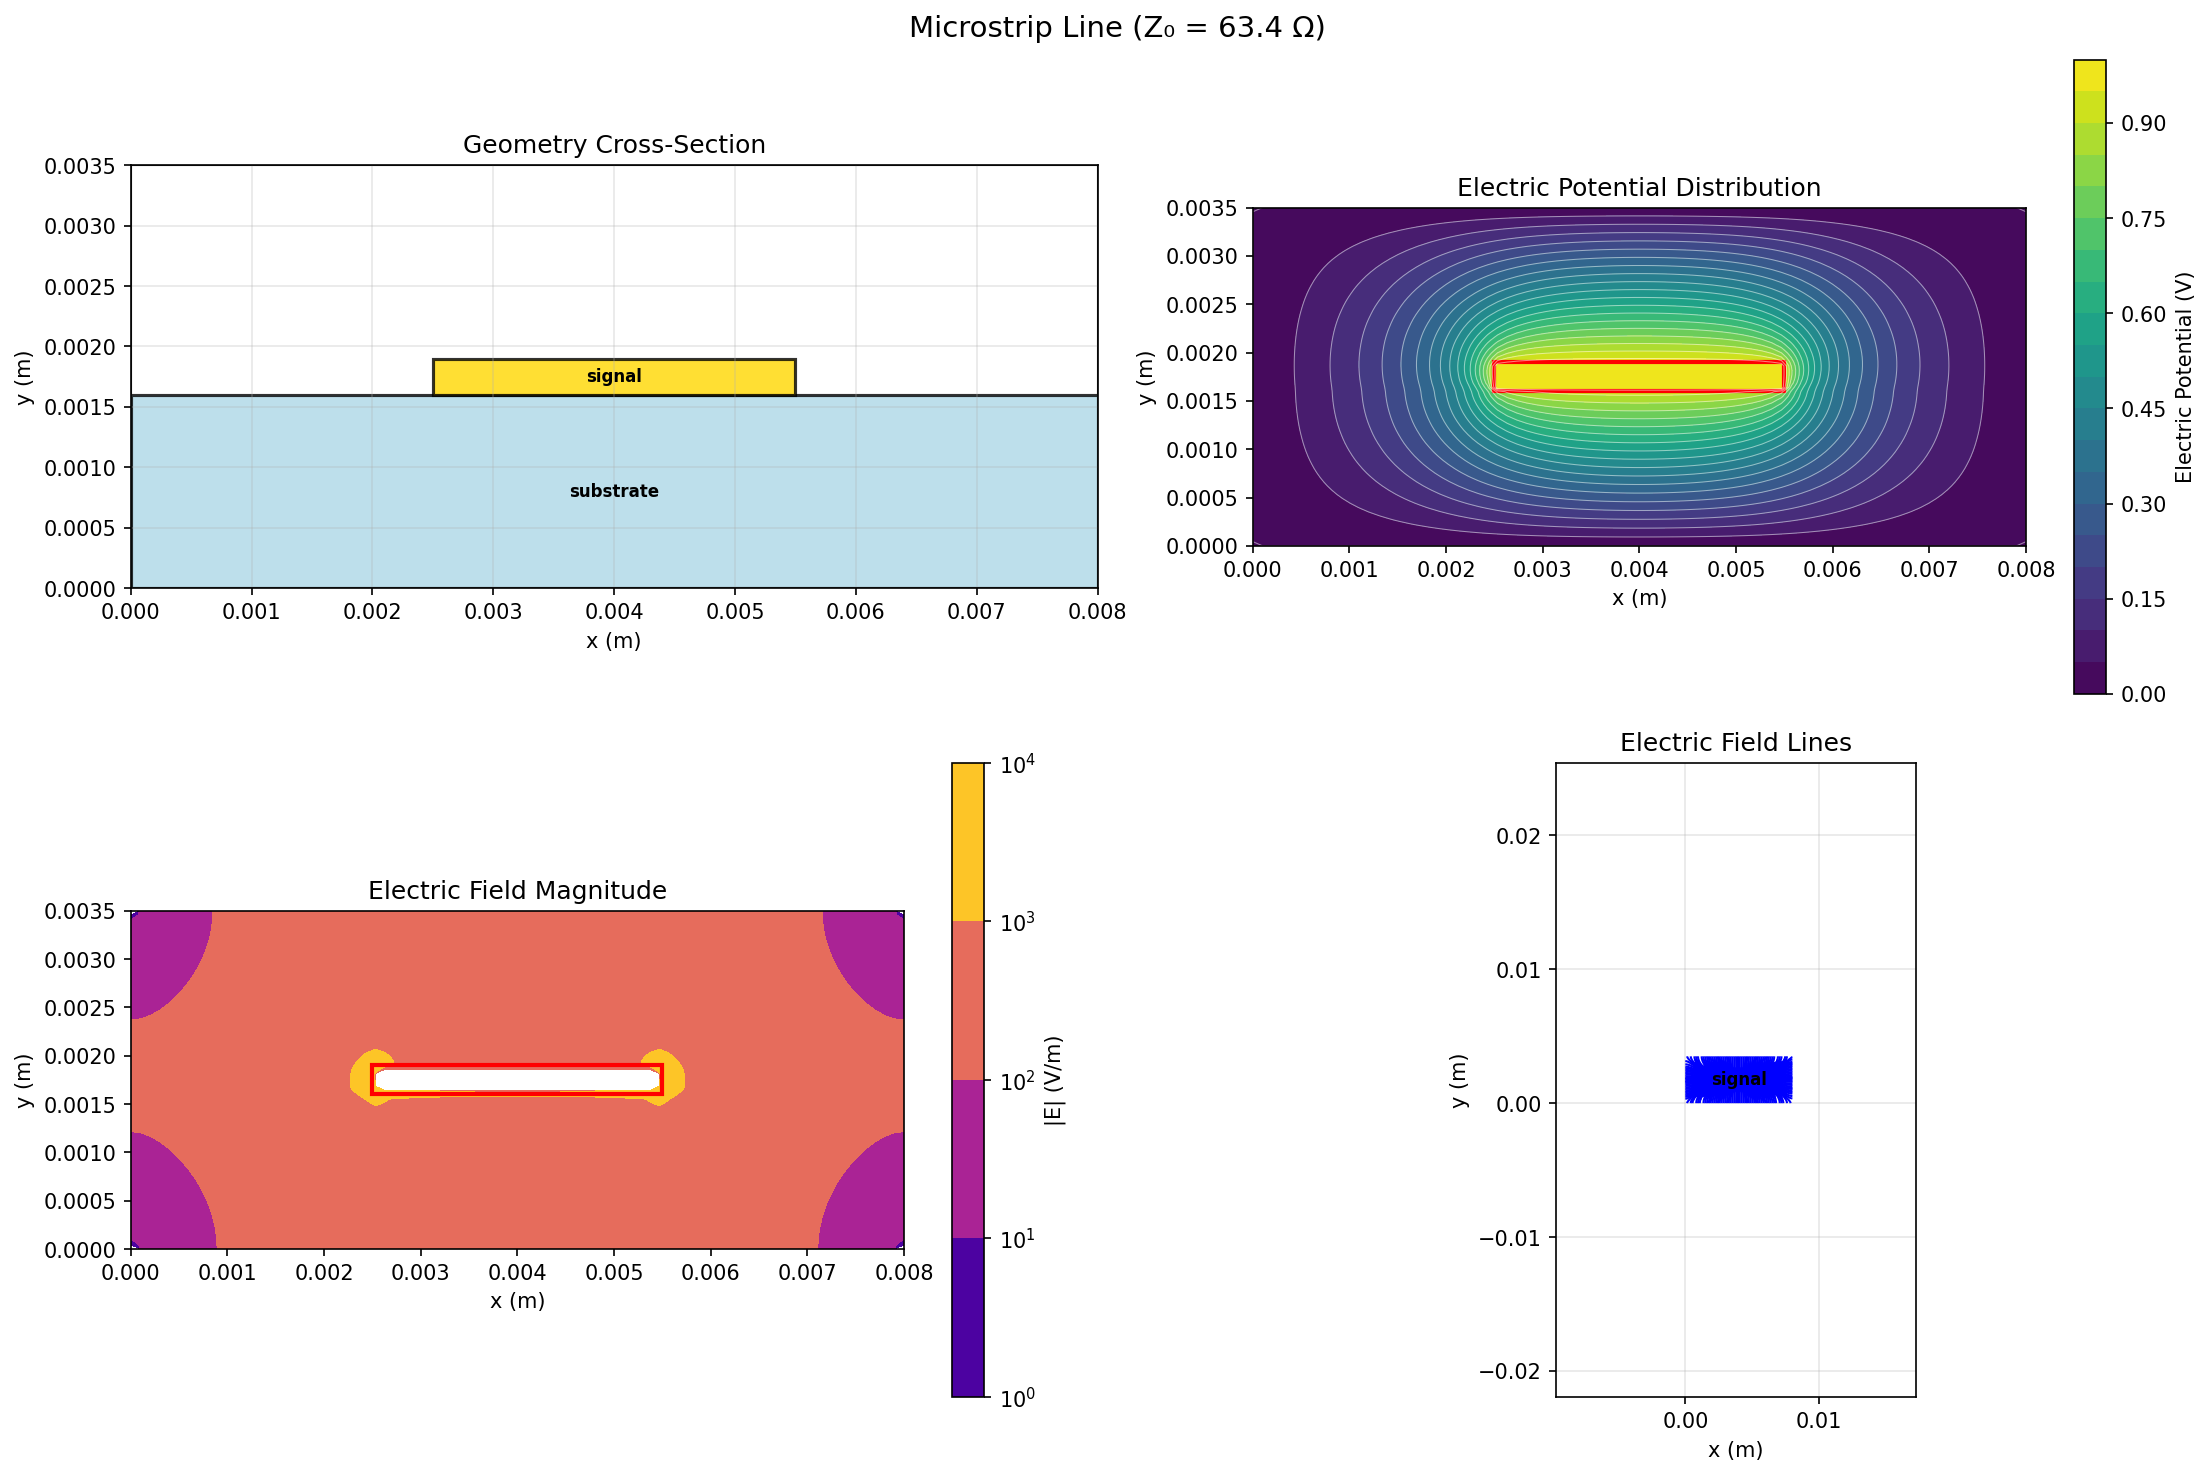
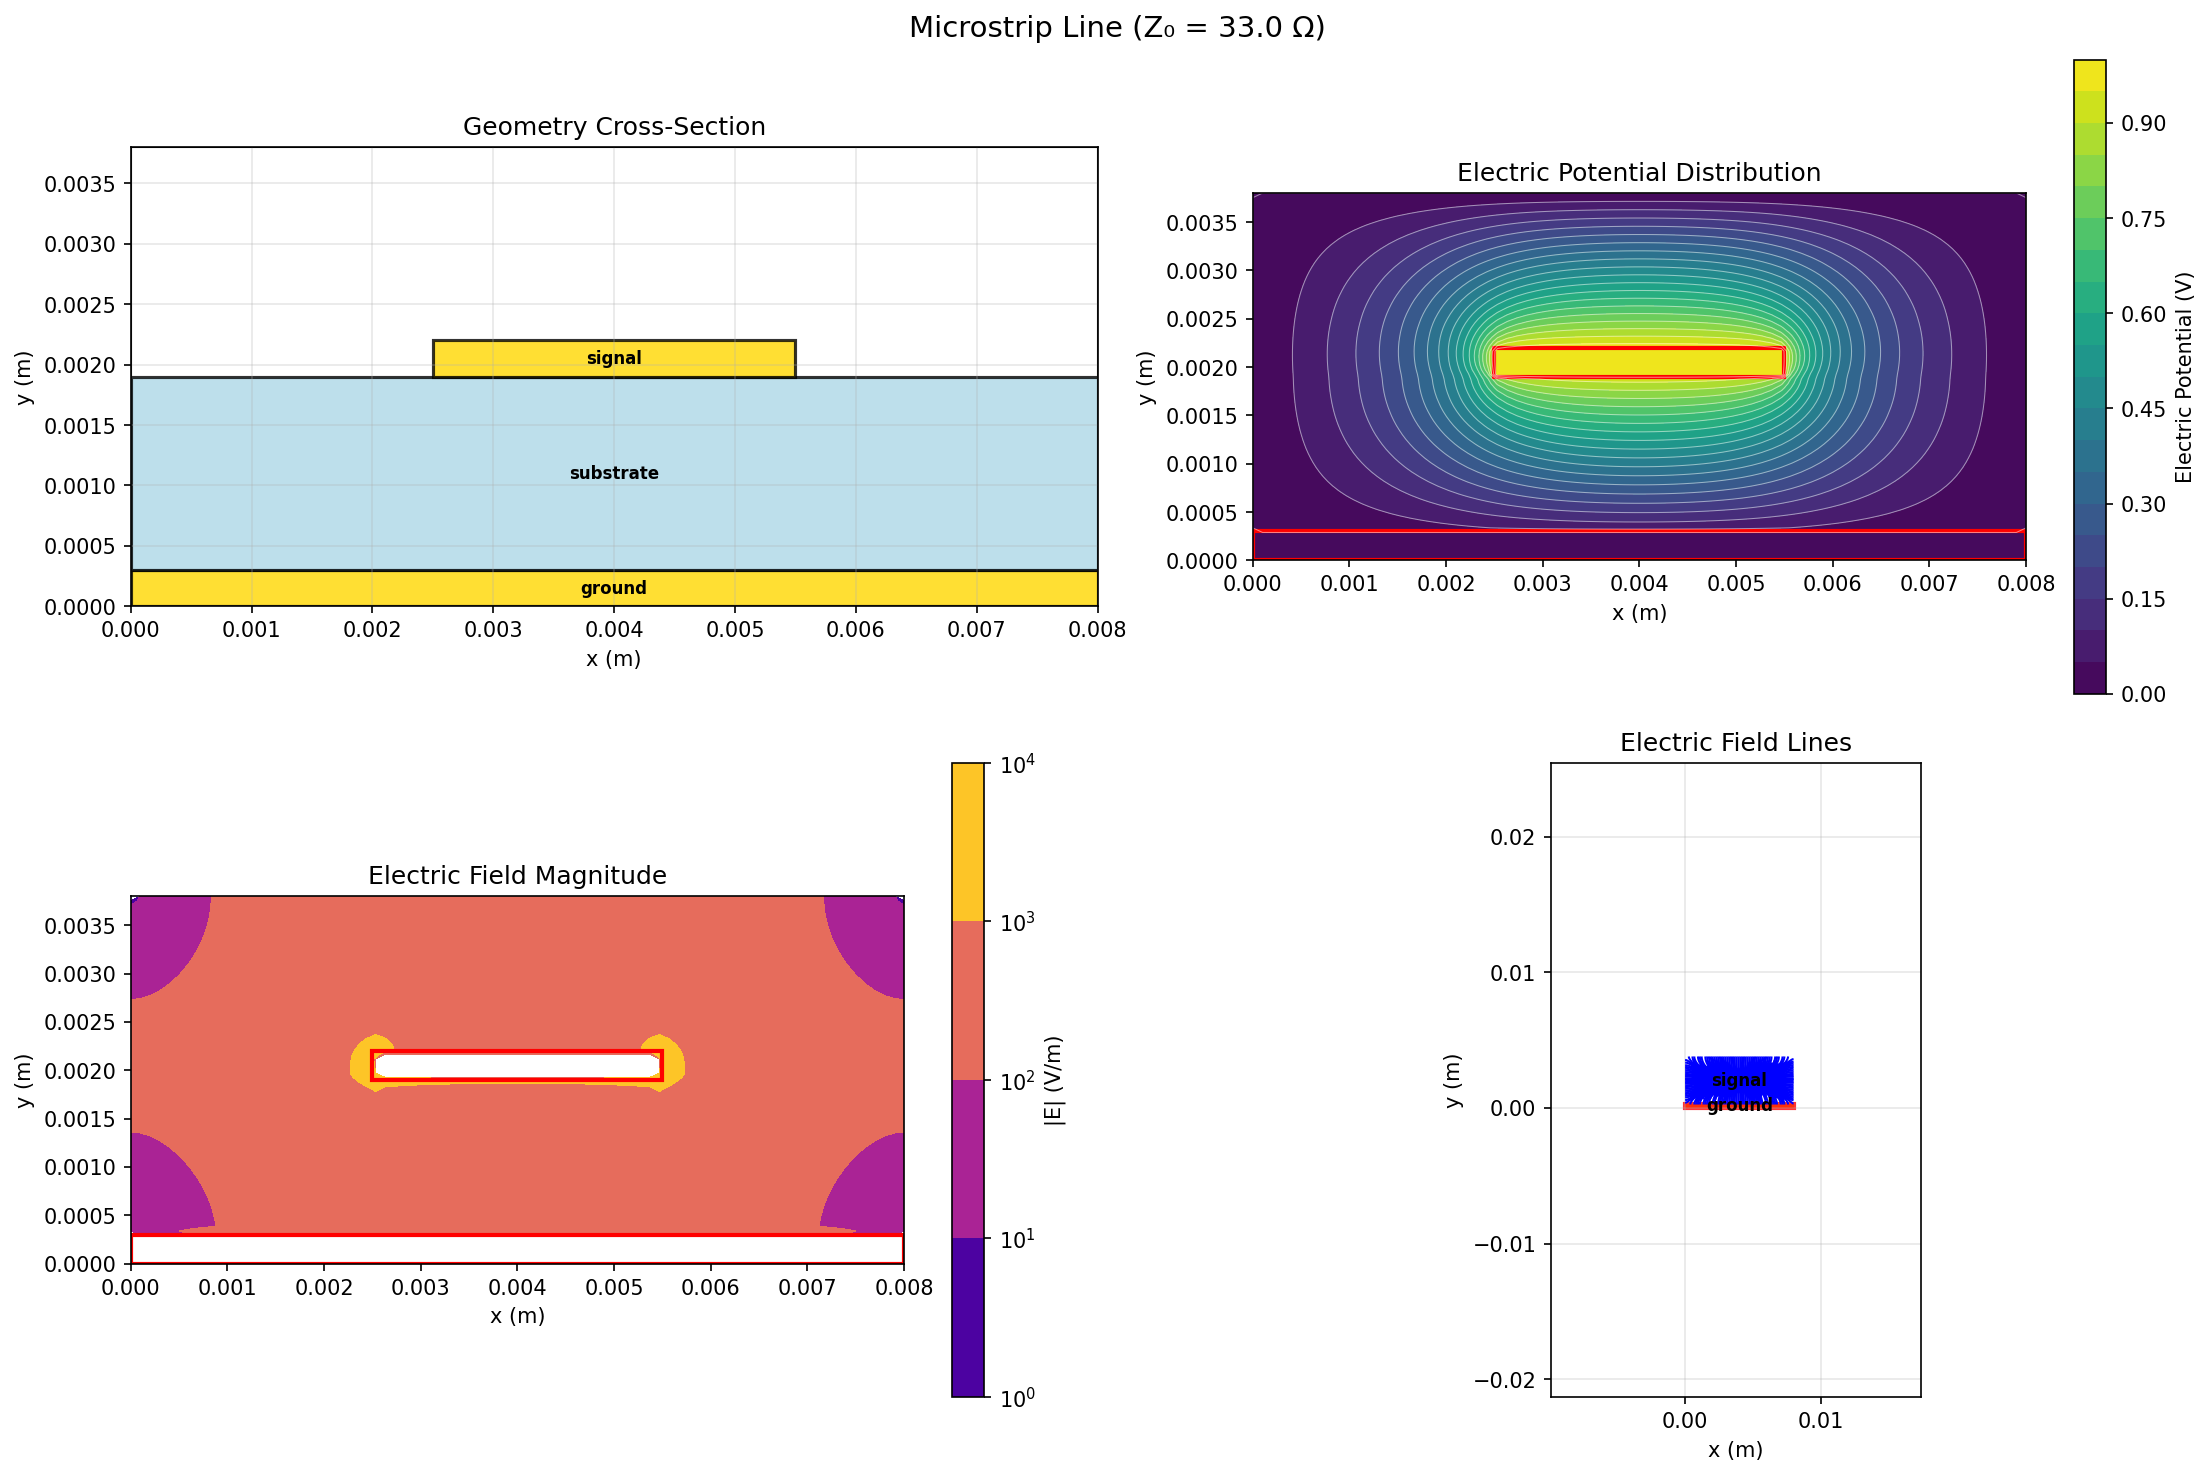
Fix microstrip geometry to include explicit ground plane

diff --git a/src/em_solver/geometry.py b/src/em_solver/geometry.py
@@ -91,9 +91,16 @@ def create_microstrip_geometry(
     trace_width: float,
     trace_thickness: float,
     substrate_er: float = 4.6,
-    conductor_name: str = "copper"
+    conductor_name: str = "signal",
+    ground_thickness: float = None
 ) -> Geometry2D:
     """Create a microstrip transmission line geometry.
+    
+    A microstrip consists of:
+    - Ground plane conductor at the bottom
+    - Substrate layer above the ground plane
+    - Signal trace on top of the substrate
+    - Air region above the trace
     
     Args:
         substrate_width: Width of the substrate
@@ -101,36 +108,52 @@ def create_microstrip_geometry(
         trace_width: Width of the trace conductor
         trace_thickness: Thickness of the trace
         substrate_er: Relative permittivity of substrate
-        conductor_name: Name of conductor material
+        conductor_name: Name of signal conductor material
+        ground_thickness: Thickness of ground plane (if None, uses trace_thickness)
     
     Returns:
         Geometry2D: Configured microstrip geometry
     """
+    # Set default ground plane thickness
+    if ground_thickness is None:
+        ground_thickness = trace_thickness
+    
     # Materials
     air = Material("air", epsilon_r=1.0)
     substrate = Material("substrate", epsilon_r=substrate_er)
-    conductor = Material(conductor_name, epsilon_r=1.0, sigma=5.8e7)  # Copper
+    signal_conductor = Material(conductor_name, epsilon_r=1.0, sigma=5.8e7)  # Copper
+    ground_conductor = Material("ground", epsilon_r=1.0, sigma=5.8e7)  # Copper ground plane
     
     # Create geometry with air as default
-    total_height = substrate_height + trace_thickness + substrate_height  # Air above
+    # Layout from bottom to top: ground plane -> substrate -> trace -> air
+    total_height = ground_thickness + substrate_height + trace_thickness + substrate_height  # Air above
     geom = Geometry2D(substrate_width, total_height, air)
     
-    # Add substrate
+    # Add ground plane at the bottom (full width)
+    ground_rect = Rectangle(
+        x_min=0, x_max=substrate_width,
+        y_min=0, y_max=ground_thickness,
+        material=ground_conductor
+    )
+    geom.add_rectangle(ground_rect)
+    
+    # Add substrate above ground plane
     substrate_rect = Rectangle(
         x_min=0, x_max=substrate_width,
-        y_min=0, y_max=substrate_height,
+        y_min=ground_thickness, y_max=ground_thickness + substrate_height,
         material=substrate
     )
     geom.add_rectangle(substrate_rect)
     
-    # Add trace (centered horizontally)
+    # Add signal trace on top of substrate (centered horizontally)
     trace_x_center = substrate_width / 2
+    trace_y_bottom = ground_thickness + substrate_height
     trace_rect = Rectangle(
         x_min=trace_x_center - trace_width/2,
         x_max=trace_x_center + trace_width/2,
-        y_min=substrate_height,
-        y_max=substrate_height + trace_thickness,
-        material=conductor
+        y_min=trace_y_bottom,
+        y_max=trace_y_bottom + trace_thickness,
+        material=signal_conductor
     )
     geom.add_rectangle(trace_rect)
     

diff --git a/demo.py b/demo.py
@@ -21,7 +21,7 @@ def demonstrate_microstrip():
     print("MICROSTRIP TRANSMISSION LINE DEMONSTRATION")
     print("="*60)
     
-    # Create realistic microstrip geometry
+    # Create realistic microstrip geometry with explicit ground plane
     # Using thicker trace for better numerical stability
     geometry = create_microstrip_geometry(
         substrate_width=0.008,    # 8mm wide substrate (plenty of margin)
@@ -29,14 +29,17 @@ def demonstrate_microstrip():
         trace_width=0.003,       # 3mm trace width
         trace_thickness=0.0003,   # 300μm thick (for numerical stability)
         substrate_er=4.6,         # FR4 dielectric constant
-        conductor_name="signal"
+        conductor_name="signal"   # Now includes explicit ground plane
     )
     
     print("Geometry created:")
     print(f"  Substrate: 8.0 × 1.6 mm (εᵣ = 4.6)")
     print(f"  Trace: 3.0 × 0.3 mm")
+    print(f"  Ground plane: 8.0 × 0.3 mm (full width)")
     print(f"  Regions: {len(geometry.regions)}")
     print(f"  Conductors: {len(geometry.get_conductor_regions())}")
+    for i, conductor in enumerate(geometry.get_conductor_regions()):
+        print(f"    {i+1}. {conductor.material.name}: ({conductor.x_min:.3f}, {conductor.y_min:.3f}) to ({conductor.x_max:.3f}, {conductor.y_max:.3f})")
     
     # Solver with good resolution
     params = SolverParameters(nx=80, ny=80, frequency=1e9)
@@ -45,13 +48,13 @@ def demonstrate_microstrip():
     print(f"  Grid: {params.nx} × {params.ny}")
     print(f"  Frequency: 1.0 GHz")
     
-    # Calculate transmission line parameters
+    # Calculate transmission line parameters with proper conductor names
     print("\nSolving electromagnetic field problem...")
     tl_params = calculate_transmission_line_parameters(
         geometry=geometry,
         parameters=params,
         frequency=1e9,
-        conductor_names=("signal", "ground")
+        conductor_names=("signal", "ground")  # Now matches actual conductor material names
     )
     
     # Calculate analytical result for comparison
@@ -70,10 +73,10 @@ def demonstrate_microstrip():
     print(f"  Inductance: {tl_params.L*1e9:.1f} nH/m")
     print(f"  Effective εᵣ: {tl_params.epsilon_eff:.2f}")
     
-    # Create field visualization
+    # Create field visualization with proper conductor voltages
     print("\nGenerating field visualization...")
     solver = FieldSolver2D(geometry, params)
-    solution = solver.solve_electrostatic({"signal": 1.0, "ground": 0.0})
+    solution = solver.solve_electrostatic({"signal": 1.0, "ground": 0.0})  # Proper ground reference
     
     fig = create_complete_field_plot(solution)
     fig.suptitle(f"Microstrip Line (Z₀ = {tl_params.Z0:.1f} Ω)", fontsize=14)
